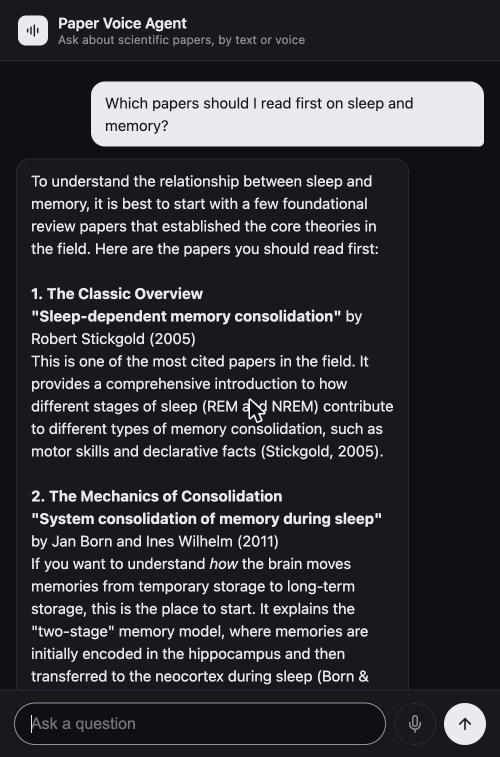
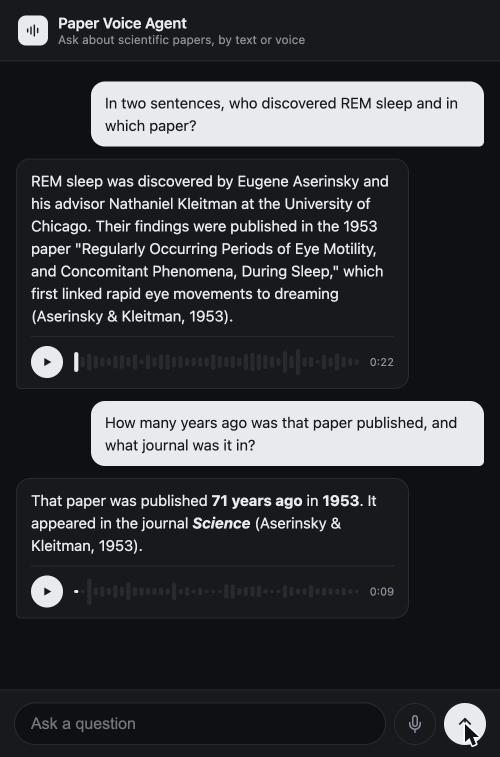
README screenshot: multi-turn conversation with voice playback bars

diff --git a/README.md b/README.md
@@ -42,7 +42,7 @@ ADK has a convenient path forward for both.
 
 ## What it looks like
 
-<img src="docs/ui-chat.png" width="380" alt="Chat UI: a typed question about sleep and memory, answered with a structured, cited reading list">
+<img src="docs/ui-chat.png" width="380" alt="Chat UI: a multi-turn conversation about the discovery of REM sleep, each reply with a voice playback bar and waveform">
 
 ## Status
 